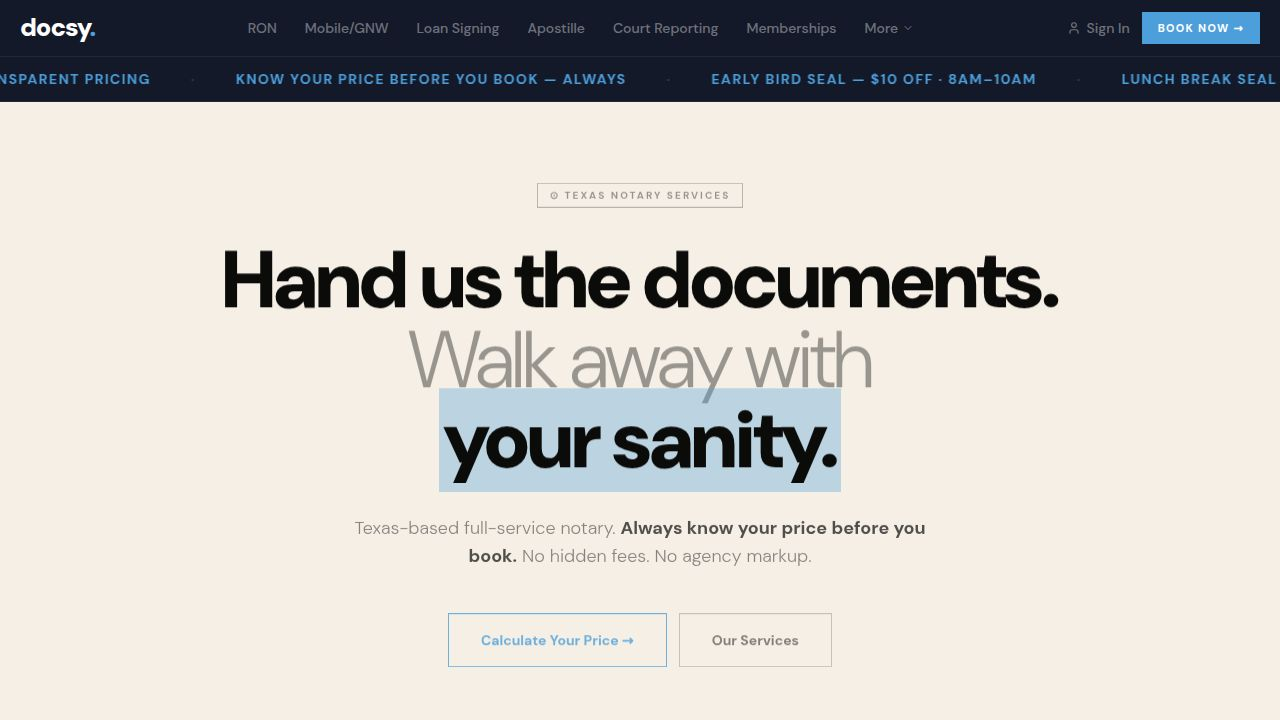
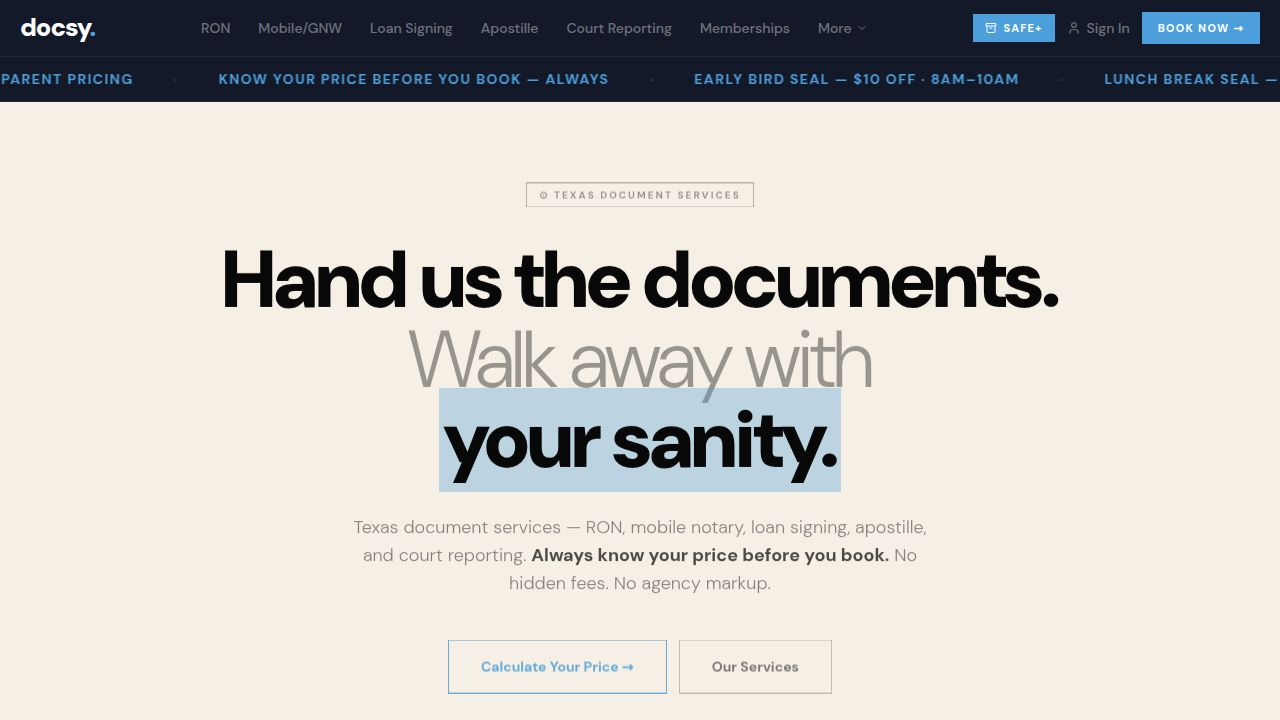
Improve vault access by adding a route-level authentication guard
Refactor authentication for the `/vault` route by introducing a `VaultGuard` component in `App.tsx` and removing the internal redirect logic from `SafeVault.tsx`.

Replit-Commit-Author: Agent
Replit-Commit-Session-Id: fe85a7c1-4831-4676-8f80-4d028b413fb4
Replit-Commit-Checkpoint-Type: full_checkpoint
Replit-Commit-Event-Id: 4ce64ba5-ed59-4417-8b7f-addd2588498c
Replit-Commit-Screenshot-Url: https://storage.googleapis.com/screenshot-production-us-central1/38e0da9f-c44b-412e-a958-2a9ec67cd275/fe85a7c1-4831-4676-8f80-4d028b413fb4/MOWLmGU
Replit-Helium-Checkpoint-Created: true

diff --git a/artifacts/docsy-website/src/App.tsx b/artifacts/docsy-website/src/App.tsx
@@ -1,10 +1,10 @@
-import { Switch, Route, Router as WouterRouter } from "wouter";
+import { Switch, Route, Router as WouterRouter, Redirect } from "wouter";
 import { QueryClient, QueryClientProvider } from "@tanstack/react-query";
 import { Toaster } from "@/components/ui/toaster";
 import { TooltipProvider } from "@/components/ui/tooltip";
 import NotFound from "@/pages/not-found";
 import { Layout } from "@/components/layout/Layout";
-import { AuthProvider } from "@/context/AuthContext";
+import { AuthProvider, useAuth } from "@/context/AuthContext";
 
 import Home from "@/pages/Home";
 import RON from "@/pages/RON";
@@ -31,6 +31,12 @@ import LanguageLine from "@/pages/LanguageLine";
 
 const queryClient = new QueryClient();
 
+function VaultGuard() {
+  const { token } = useAuth();
+  if (!token) return <Redirect to="/vault-info" />;
+  return <SafeVault />;
+}
+
 function Router() {
   return (
     <Switch>
@@ -51,7 +57,7 @@ function Router() {
       <Route path="/promos" component={Promos} />
       <Route path="/login" component={Login} />
       <Route path="/verify" component={Verify} />
-      <Route path="/vault" component={SafeVault} />
+      <Route path="/vault" component={VaultGuard} />
       <Route path="/vault-info" component={VaultInfo} />
       <Route path="/contact" component={Contact} />
       <Route path="/about" component={About} />

diff --git a/artifacts/docsy-website/src/pages/SafeVault.tsx b/artifacts/docsy-website/src/pages/SafeVault.tsx
@@ -52,7 +52,6 @@ export default function SafeVault() {
 
   useEffect(() => {
     document.title = "My Safe+ Vault | Docsy Services";
-    if (!token) { setLocation("/vault-info"); return; }
     fetchVault();
   }, [token]);
 